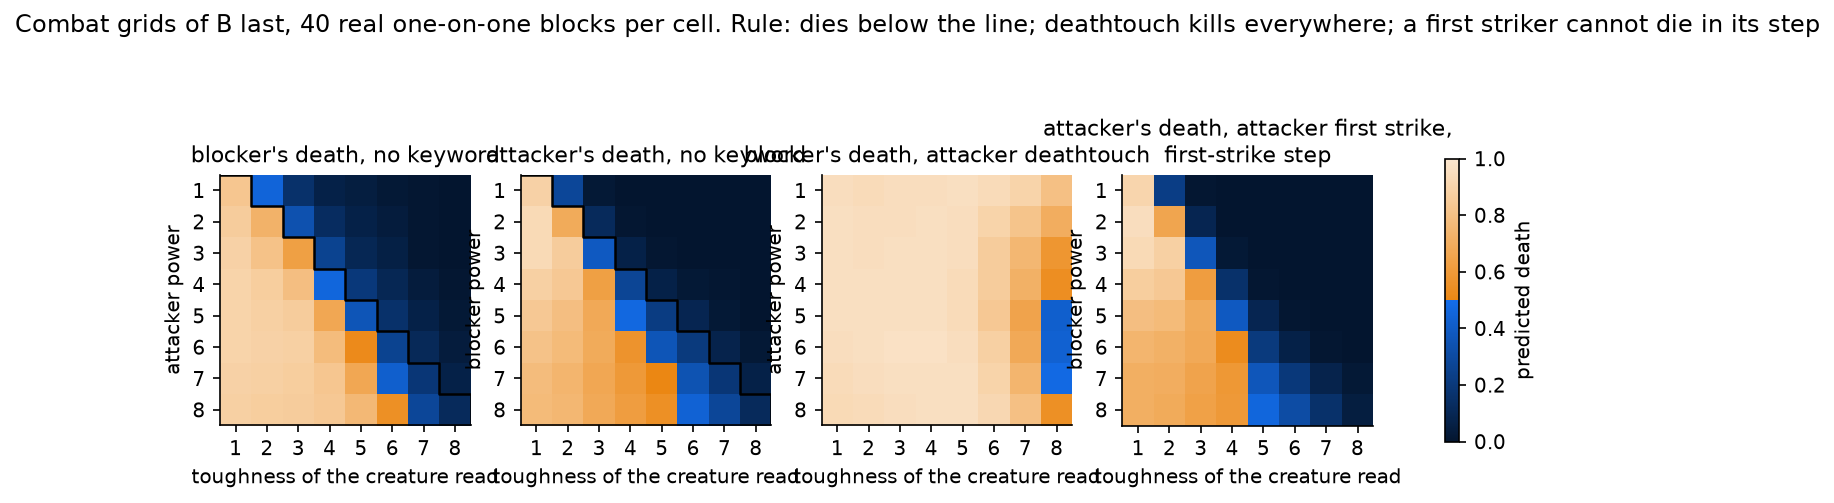
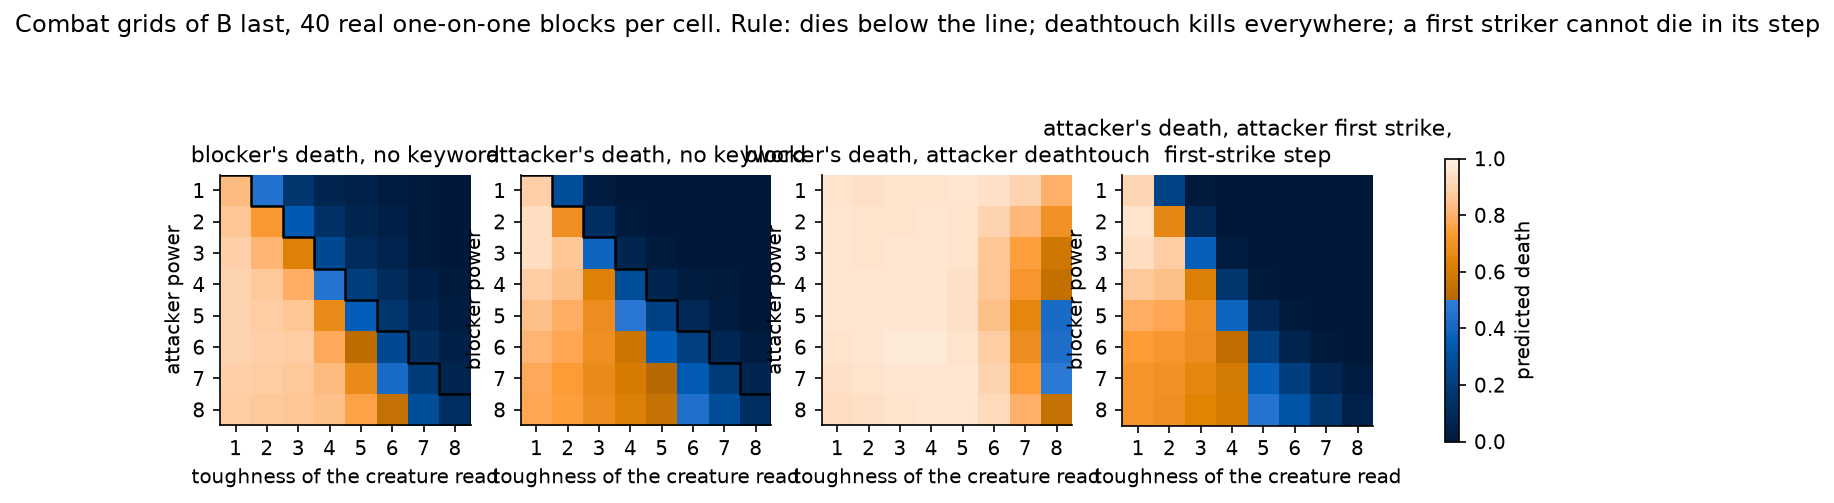
docs(effects): build the death colour scale in OKLCh, so blue and orange meet at the same perceived lightness

diff --git a/scripts/effect_gen2_report/make_charts.py b/scripts/effect_gen2_report/make_charts.py
@@ -87,19 +87,42 @@ def rule_staircase(ax, offset: float = 0.0) -> None:
     ax.plot(xs, ys, color="black", lw=1.2)
 
 
+def _oklch_to_srgb(lightness: float, chroma: float, hue_deg: float):
+    """One OKLCh colour as sRGB in 0..1, or None when no screen can show it."""
+    a = chroma * np.cos(np.radians(hue_deg))
+    b = chroma * np.sin(np.radians(hue_deg))
+    l_ = (lightness + 0.3963377774 * a + 0.2158037573 * b) ** 3
+    m_ = (lightness - 0.1055613458 * a - 0.0638541728 * b) ** 3
+    s_ = (lightness - 0.0894841775 * a - 1.2914855480 * b) ** 3
+    linear = np.array([
+        4.0767416621 * l_ - 3.3077115913 * m_ + 0.2309699292 * s_,
+        -1.2684380046 * l_ + 2.6097574011 * m_ - 0.3413193965 * s_,
+        -0.0041960863 * l_ - 0.7034186147 * m_ + 1.7076381450 * s_,
+    ])
+    if linear.min() < -1e-4 or linear.max() > 1 + 1e-4:
+        return None
+    linear = np.clip(linear, 0, 1)
+    return np.where(linear <= 0.0031308, 12.92 * linear,
+                    1.055 * linear ** (1 / 2.4) - 0.055)
+
+
 def _death_colourmap() -> matplotlib.colors.ListedColormap:
-    """Brightness rises steadily from 0 to 1; the hue flips from blue to orange at 0.5.
+    """Perceived lightness rises evenly from 0 to 1; the hue flips from blue to orange at 0.5.
 
-    The hue break marks the even-odds line at a glance, and the continuous brightness
-    keeps the order of the values readable on either side of it.
+    Built in OKLCh, a perceptually uniform colour space, so the two hues meet at the
+    same perceived brightness and the break marks the even-odds line without a jump in
+    brightness. Chroma is lowered only where a colour falls outside the sRGB gamut.
     """
-    import colorsys
-
     colours = []
     for v in np.linspace(0, 1, 256):
-        lightness = 0.10 + 0.80 * v
-        hue = 215 / 360 if v < 0.5 else 32 / 360
-        colours.append(colorsys.hls_to_rgb(hue, lightness, 0.85))
+        lightness = 0.22 + 0.75 * v
+        hue = 255.0 if v < 0.5 else 62.0
+        chroma = 0.16
+        rgb = _oklch_to_srgb(lightness, chroma, hue)
+        while rgb is None:
+            chroma -= 0.002
+            rgb = _oklch_to_srgb(lightness, chroma, hue)
+        colours.append(tuple(rgb))
     return matplotlib.colors.ListedColormap(colours, name="death")
 
 
